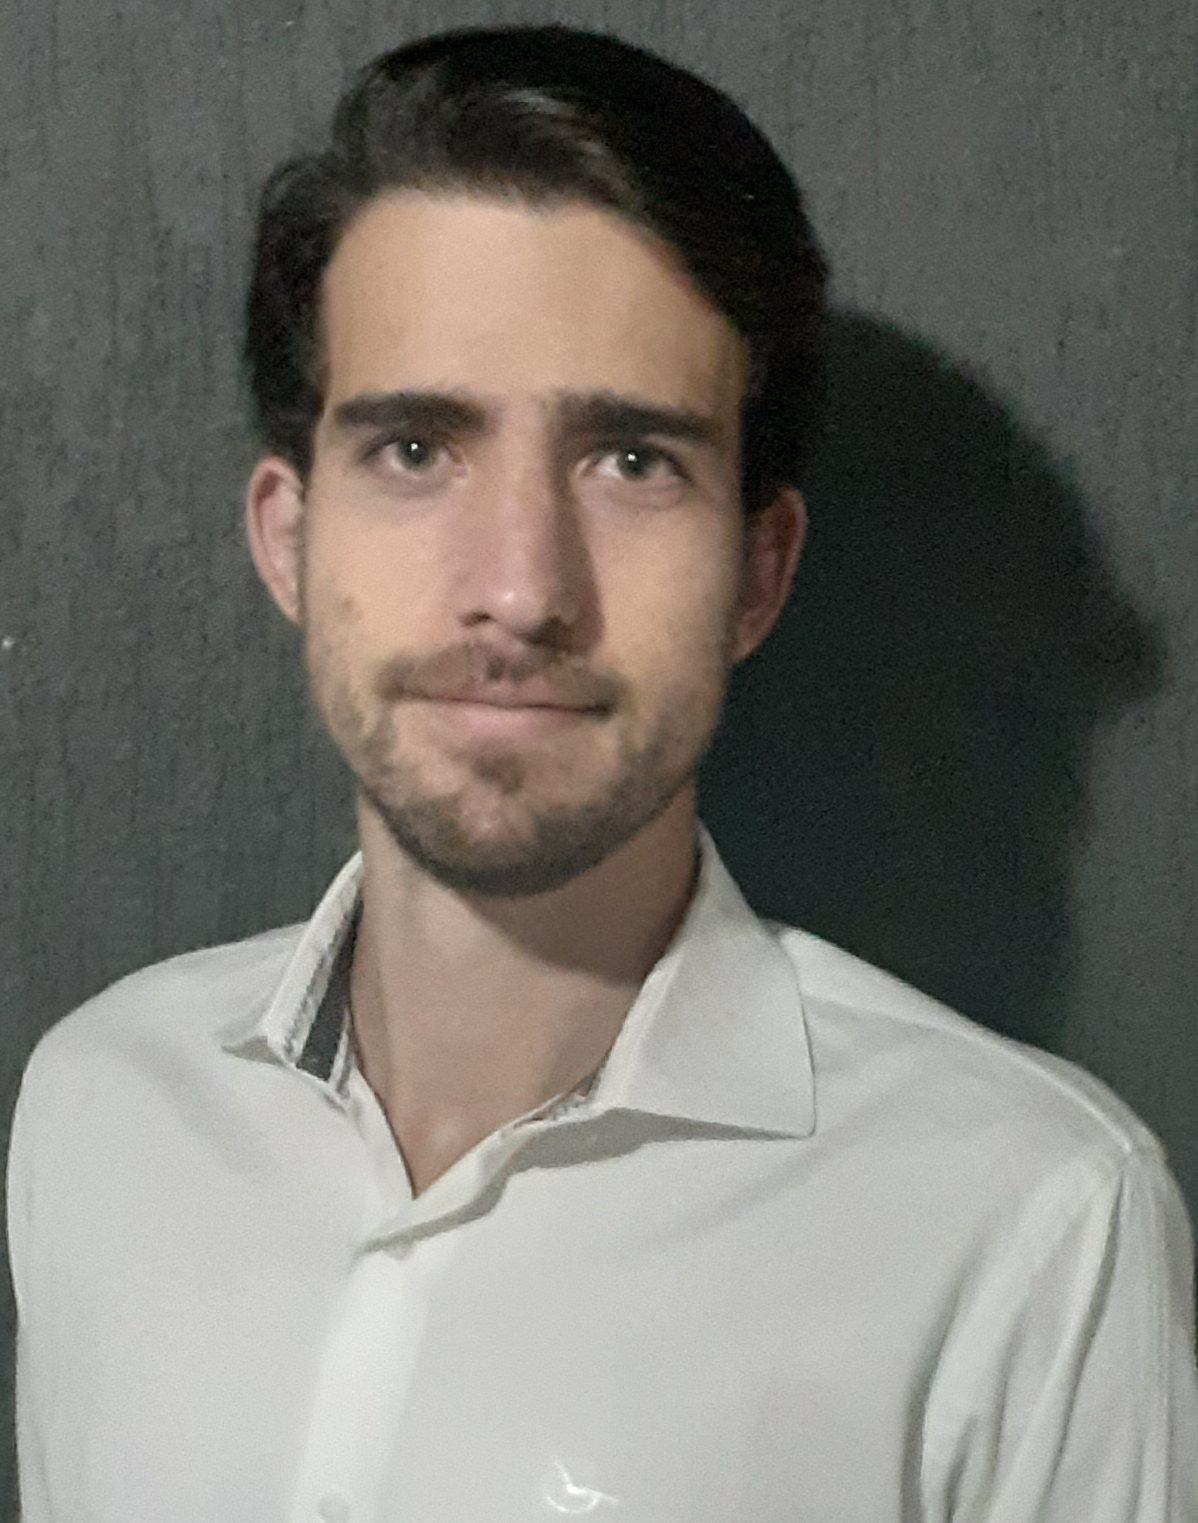
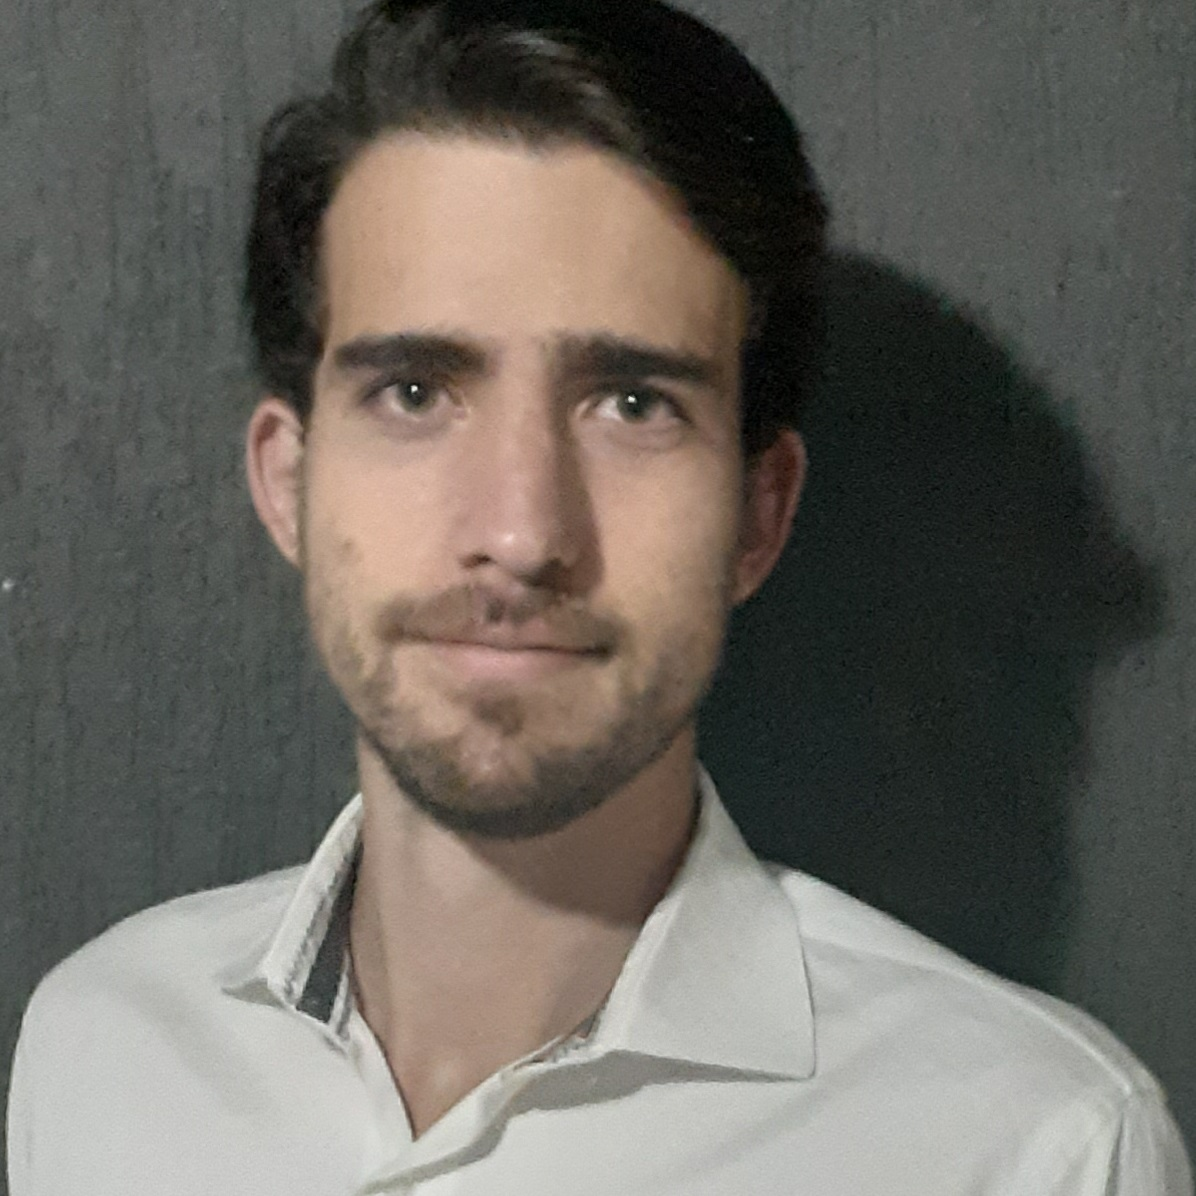
Positioning picture, adding colors and more

diff --git a/assets/css/main.css b/assets/css/main.css
@@ -7,6 +7,12 @@
 	Free for personal and commercial use under the CCA 3.0 license (html5up.net/license)
 */
 
+:root{
+	--color1: hsl(46, 100%, 95%);
+	--color2: hsl(231, 16%, 15%);
+	--accentColor: hsl(46,91%,58%);
+}
+
 html, body, div, span, applet, object,
 iframe, h1, h2, h3, h4, h5, h6, p, blockquote,
 pre, a, abbr, acronym, address, big, cite,
@@ -31,6 +37,7 @@ footer, header, hgroup, menu, nav, section {
 
 body {
 	line-height: 1;
+	background-color: var(--color2);
 }
 
 ol, ul {
@@ -1306,7 +1313,6 @@ input, select, textarea {
 	}
 
 	body {
-		background-image: url("images/overlay.png"), url("images/bg.jpg");
 		background-repeat: repeat, no-repeat;
 		background-size: auto, 100% 100%;
 		background-attachment: fixed;
@@ -1947,8 +1953,8 @@ input, select, textarea {
 		position: relative;
 		overflow: hidden;
 		width: 100%;
-		background: #ffffff;
-		box-shadow: 0px 1px 0px 0px rgba(0, 0, 0, 0.25);
+		background: var(--color1);
+		box-shadow: 2px 2px 8px 0px rgba(255, 255, 255, 0.25);
 		-moz-transition: min-height 0.5s ease-in-out, max-height 0.5s ease-in-out;
 		-webkit-transition: min-height 0.5s ease-in-out, max-height 0.5s ease-in-out;
 		-ms-transition: min-height 0.5s ease-in-out, max-height 0.5s ease-in-out;
@@ -1979,35 +1985,34 @@ input, select, textarea {
 			}
 
 			#main > .panel.intro {
-				padding: 0;
 				height: 20em;
 				display: -moz-flex;
 				display: -webkit-flex;
 				display: -ms-flex;
 				display: flex;
+				padding-top: 2em;
+				justify-content: space-around;
 				-moz-flex-direction: row;
 				-webkit-flex-direction: row;
 				-ms-flex-direction: row;
 				flex-direction: row;
-				-moz-align-items: center;
-				-webkit-align-items: center;
-				-ms-align-items: center;
-				align-items: center;
 			}
 
 				#main > .panel.intro .pic {
 					text-decoration: none;
 					position: relative;
-					-moz-flex-grow: 0;
-					-webkit-flex-grow: 0;
-					-ms-flex-grow: 0;
-					flex-grow: 0;
 					-moz-flex-shrink: 0;
 					-webkit-flex-shrink: 0;
 					-ms-flex-shrink: 0;
 					flex-shrink: 0;
-					width: 17em;
-					height: 100%;
+					padding:5px;
+					width: 260px;
+					height: 260px;
+					display: flex;
+					align-items: center;
+					justify-content: center;
+					border-radius: 125px;
+					background-color: var(--color2);
 				}
 
 					#main > .panel.intro .pic:before {
@@ -2024,11 +2029,8 @@ input, select, textarea {
 					#main > .panel.intro .pic img {
 						position: relative;
 						display: block;
-						position: absolute;
-						top: 0;
-						left: 0;
+						border-radius: 120px;
 						width: 100%;
-						height: 100%;
 						-moz-object-fit: cover;
 						-webkit-object-fit: cover;
 						-ms-object-fit: cover;
@@ -2039,13 +2041,15 @@ input, select, textarea {
 						object-position: center;
 					}
 
-					#main > .panel.intro .pic .arrow {
-						display: block;
+					#main > .panel.intro a .arrow {
+						display: flex;
 						position: absolute;
+						align-items: center;
+						justify-content: center;
+						cursor: pointer;
 						right: 0;
-						top: 50%;
-						margin-top: -1.375em;
-						width: 2.75em;
+						top: calc(50% - 1.375em);
+						width: 1.75em;
 						height: 2.75em;
 						background: #000;
 						background: rgba(0, 0, 0, 0.75);
@@ -2060,34 +2064,25 @@ input, select, textarea {
 						transition: width .15s ease-in-out, padding-right .15s ease-in-out;
 					}
 
-						#main > .panel.intro .pic .arrow:before {
+						#main > .panel.intro a .arrow:before {
 							position: relative;
 							padding-right: 0;
-							top: 0.125em;
 						}
 
-						#main > .panel.intro .pic .arrow span {
+						#main > .panel.intro a .arrow span {
 							display: block;
 							text-indent: -9999px;
 						}
 
-					#main > .panel.intro .pic:hover .arrow {
+					#main > .panel.intro:has(.pic:hover) .arrow, #main > .panel.intro .arrow:hover {
 						width: 3em;
 						padding-right: 0.25em;
 					}
 
 				#main > .panel.intro header {
-					-moz-flex-grow: 1;
-					-webkit-flex-grow: 1;
-					-ms-flex-grow: 1;
-					flex-grow: 1;
-					-moz-flex-shrink: 1;
-					-webkit-flex-shrink: 1;
-					-ms-flex-shrink: 1;
-					flex-shrink: 1;
 					padding: 3.5em 2.5em;
 					margin-bottom: 0;
-					width: 100%;
+					width: 55%;
 				}
 
 					#main > .panel.intro header h1 {
